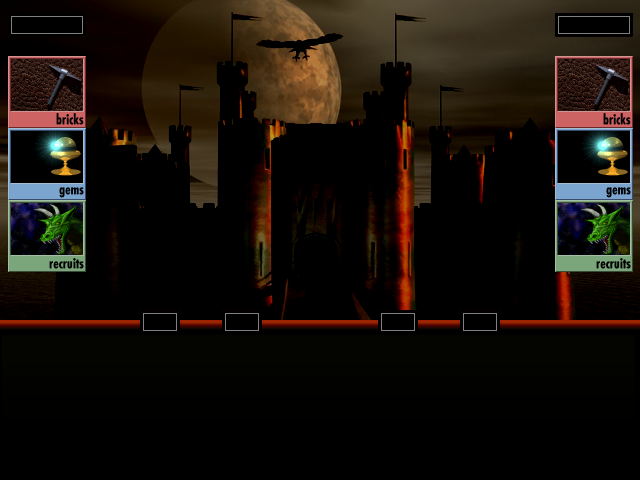
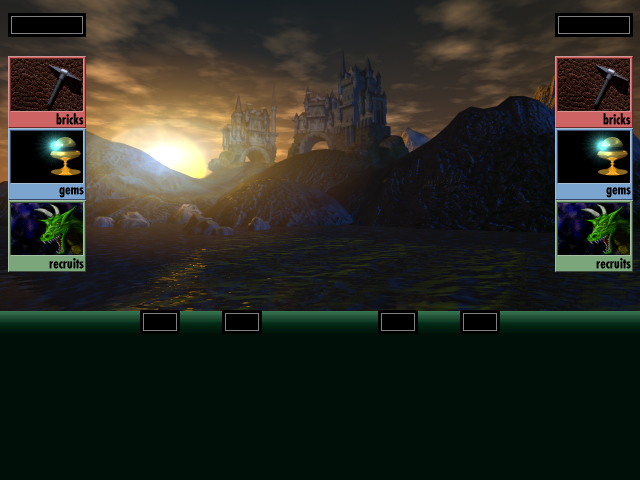
Graphics and usage changes
Now you can get more than 9 resource generators (though if you get more,
the number is not displayed - yet), you no longer can get 0 resource
generators, Lightning Shard now does what it says on the card, Moody
goblins sound is fixed, cards that you can't use due to missing resources
are more easily distinguished, the graphics.c class is now less hackish,
the buttons and background graphics are now the same as in the original
Arcomage, updated credits (still needs more work) and you can now escape
the win/lose window with your mouse (although you can accidentally click
a menu button - needs some work with command queueing; the same needs to
be applied to the Credits page).

The order in which players receive resources from their generators is
being changed, but is still a little buggy at the moment.

diff --git a/src/graphics.c b/src/graphics.c
@@ -11,6 +11,14 @@
 SDL_Event event;
 SDL_Surface *GfxData[GFX_CNT];
 
+int resX=640;
+int resY=480;
+int buttonWidth=125;
+int buttonHeight=54;
+int buttonDistanceX=257; //resX/2-buttonWidth/2 = 240
+int buttonDistanceY=105; //resY/2-(buttonHeight/2)*5 = 70
+int buttonNum=5;
+
 BFont_Info *numssmall=NULL;
 BFont_Info *font=NULL;
 BFont_Info *bigfont=NULL;
@@ -56,7 +64,7 @@ void Graphics_Init(int fullscreen)
 	if (SDL_Init(SDL_INIT_VIDEO|SDL_INIT_NOPARACHUTE)<0)
 		FatalError("Couldn't initialize SDL");
 	SDL_WM_SetCaption("Arcomage v" ARCOVER,NULL);
-	GfxData[SCREEN]=SDL_SetVideoMode(640,480,0,SDL_SWSURFACE|(fullscreen*SDL_FULLSCREEN));
+	GfxData[SCREEN]=SDL_SetVideoMode(resX,resY,0,SDL_SWSURFACE|(fullscreen*SDL_FULLSCREEN));
 	if (!GfxData[SCREEN])
 		FatalError("Couldn't set 640x480 video mode");
 	GfxData[BUFFER]=SDL_AllocSurface(GfxData[SCREEN]->flags,GfxData[SCREEN]->w,GfxData[SCREEN]->h,GfxData[SCREEN]->format->BitsPerPixel,GfxData[SCREEN]->format->Rmask,GfxData[SCREEN]->format->Gmask,GfxData[SCREEN]->format->Bmask,0);
@@ -146,7 +154,7 @@ void DrawStatus(int turn,struct Stats *Players)
 	sprintf(b,"%d",Players[0].t);BFont_PutString(GfxData[SCREEN],160-BFont_TextWidth(b)/2,317,b);
 	sprintf(b,"%d",Players[0].w);BFont_PutString(GfxData[SCREEN],242-BFont_TextWidth(b)/2,317,b);
 	sprintf(b,"%d",Players[1].w);BFont_PutString(GfxData[SCREEN],398-BFont_TextWidth(b)/2,317,b);
-	sprintf(b,"%d",Players[1].t);BFont_PutString(GfxData[SCREEN],480-BFont_TextWidth(b)/2,317,b);
+	sprintf(b,"%d",Players[1].t);BFont_PutString(GfxData[SCREEN],resY-BFont_TextWidth(b)/2,317,b);
 //	draw left tower
 	rectb.x=0;rectb.y=0;rectb.w=68;rectb.h=292-(200-Players[0].t);
 	recta.x=126;recta.y=16+(200-Players[0].t);recta.w=68;recta.h=292-(200-Players[0].t);
@@ -169,8 +177,13 @@ void DrawMenuItem(int i,int active)
 {
 	SDL_Rect recta,rectb;
 
-	recta.x=240;recta.y=i*32+160;recta.w=160;recta.h=32;
-	rectb.x=active*160;rectb.y=i*32;rectb.w=160;rectb.h=32;
+	//GE: x=distance from left border, y=number*height+distance from top border
+	//w=width, h=height; rectb is location in file, x=activated*width, y=number*height
+	//w=width, h=height.
+	//recta.x=240;recta.y=i*32+160;recta.w=160;recta.h=32;
+	//rectb.x=active*160;rectb.y=i*32;rectb.w=160;rectb.h=32;
+	recta.x=buttonDistanceX;recta.y=i*buttonHeight+buttonDistanceY;recta.w=buttonWidth;recta.h=buttonHeight;
+	rectb.x=active*buttonWidth;rectb.y=i*buttonHeight;rectb.w=buttonWidth;rectb.h=buttonHeight;
 
 	if (active)
 		SDL_BlitSurface(GfxData[MENUITEMS],&rectb,GfxData[SCREEN],&recta);
@@ -183,7 +196,7 @@ int Menu()
 	int i,j,value=0;
 
 	SDL_BlitSurface(GfxData[MENU],NULL,GfxData[SCREEN],NULL);
-	for (i=0;i<5;i++)
+	for (i=0;i<buttonNum;i++)
 		DrawMenuItem(i,0);
 	
 	UpdateScreen();
@@ -197,15 +210,15 @@ int Menu()
 			value=5;
 			break;
 		case SDL_MOUSEMOTION:
-			j=(event.motion.y-160)/32;
-			for (i=0;i<5;i++)
-				DrawMenuItem(i,(i==j)&&(event.motion.x>=240) && (event.motion.x<=240+160) && (event.motion.y>=160) && (event.motion.y<=160+160));
-			SDL_UpdateRect(GfxData[SCREEN],240,160,240+160,160+160);
+			j=(event.motion.y-buttonDistanceY)/buttonHeight;
+			for (i=0;i<buttonNum;i++)
+				DrawMenuItem(i,(i==j)&&(event.motion.x>=buttonDistanceX) && (event.motion.x<=buttonDistanceX+buttonWidth) && (event.motion.y>=buttonDistanceY) && (event.motion.y<=buttonDistanceY+buttonHeight*buttonNum));
+			SDL_UpdateRect(GfxData[SCREEN],buttonDistanceX,buttonDistanceY,buttonDistanceX+buttonWidth,buttonDistanceY+buttonHeight*buttonNum);
 			break;
 		case SDL_MOUSEBUTTONDOWN:
-			if ((event.button.button==SDL_BUTTON_LEFT) && InRect(event.button,240,160,240+160,160+160))
+			if ((event.button.button==SDL_BUTTON_LEFT) && InRect(event.button,buttonDistanceX,buttonDistanceY,buttonDistanceX+buttonWidth,buttonDistanceY+buttonHeight*buttonNum))
 			{	// menuitem
-				j=(event.button.y-160)/32;
+				j=(event.button.y-buttonDistanceY)/buttonHeight;
 				value=j+1;
 			}
 			break;
@@ -259,8 +272,8 @@ char *DialogBox(int type,const char *fmt,...)
 	}
 	rect.w=352;
 	rect.h=128;
-	rect.x=(640-rect.w) >> 1;
-	rect.y=(480-rect.h) >> 1;
+	rect.x=(resX-rect.w) >> 1;
+	rect.y=(resY-rect.h) >> 1;
 	SDL_BlitSurface(GfxData[type],NULL,GfxData[SCREEN],&rect);
 	rect.w-=4;
 	rect.h-=4;
@@ -351,17 +364,34 @@ void DoCredits()
 	#define HGHT 30
 	char *text[]={
 		"Arcomage v" ARCOVER,
-		"by STiCK (2005)",
+		"by STiCK and GreatEmerald (2005-2009)",
 		"",
-		"This program was created",
+		"This program was originally created",
 		"as Individual Software Project",
 		"at Charles University",
 		"Prague, Czech Republic",
 		"",
+		"Since 2009 it became easier to access",
+		"and its development was continued.",
+		"",
 		"http://stick.gk2.sk/projects/arcomage/",
+		"",
+		"This is a clone of Arcomage, a card game",
+		"originally released by New World Computing",
+		"and the 3DO Company as a part of",
+		"Might and Magic VII: For Blood and Honor",
+		"and re-released in 2001 as a stand-alone",
+		"application.",
+		"Since it didn't support any kind of",
+		"modifications, this open source project",
+		"aims to completely remake the original",
+		"and make it more flexible.",
+		"",
+		"Original credits follow.",
+		"",
 		NULL
 	};
-	int i,ypos=480;
+	int i,ypos=resY;
 	BFont_SetCurrentFont(bigfont);
 	while (event.type!=SDL_KEYDOWN || event.key.keysym.sym!=SDLK_ESCAPE)
 	{
@@ -369,7 +399,7 @@ void DoCredits()
 		i=0;
 		while (text[i])
 		{
-			if (ypos+i*HGHT>=-20 && ypos+i*HGHT<=640)
+			if (ypos+i*HGHT>=-20 && ypos+i*HGHT<=resX)
 				BFont_CenteredPutString(GfxData[SCREEN],ypos+i*HGHT,text[i]);
 			i++;
 		}

diff --git a/src/arco.c b/src/arco.c
@@ -16,6 +16,7 @@ int fullscreen=0;
 int soundenabled=1;
 int turn=0;
 int nextturn=0;
+int lastturn=0;
 int aiplayer=-1;
 int netplayer=-1;
 struct Stats Player[2];
@@ -39,7 +40,7 @@ void DrawCards(int turn)
 			if (Requisite(&Player[turn],i))
 				DrawCard(Player[turn].Hand[i],8+106*i,342);
 			else
-				DrawCardAlpha(Player[turn].Hand[i],8+106*i,342,160);
+				DrawCardAlpha(Player[turn].Hand[i],8+106*i,342,64);
 }
 
 void Boss()
@@ -80,6 +81,7 @@ void PlayCard(int c,int discrd)
 #define STEPS 10
 	int sound;
 	double d,x,y;
+	int bGiveResources=0;
 	
 	if (Player[turn].Hand[c] == 6+(1<<8) && discrd)
 		return;		// LodeStone can't be discarded
@@ -91,7 +93,7 @@ void PlayCard(int c,int discrd)
 		x=(8.0+106.0*c)+d*(272.0-(8.0+106.0*c));
 		y=342.0+d*(96.0-342.0);
 		Blit(BUFFER,SCREEN);
-		DrawCardAlpha(Player[turn].Hand[c],(int)x,(int)y,128);
+		DrawCardAlpha(Player[turn].Hand[c],(int)x,(int)y,64);
 		if (discrd)
 			DrawCard(0x200,(int)x,(int)y);
 		UpdateScreen();
@@ -100,17 +102,23 @@ void PlayCard(int c,int discrd)
 	sound=-1;
 	if (discrd) nextturn=!turn;
 			else nextturn=Turn(&Player[turn],&Player[!turn],Player[turn].Hand[c],turn);
-	Player[turn].b+=Player[turn].q;
-	Player[turn].g+=Player[turn].m;
-	Player[turn].r+=Player[turn].d;
+	if (turn != nextturn)
+		bGiveResources = 1;
 	Blit(GAMEBG,SCREEN);
 	DrawCard(Player[turn].Hand[c],272,96);
 	if (discrd) DrawCard(0x200,272,96);
 	PutCard(Player[turn].Hand[c]);
 	Player[turn].Hand[c]=GetCard();
+	lastturn=turn;
 	turn=nextturn;
 		
-	DrawStatus(turn,Player);	
+	DrawStatus(turn,Player);
+	if (bGiveResources) //GE: if you didn't put a play again card or you have discarded
+	{
+		Player[!lastturn].b+=Player[!lastturn].q; //GE: The enemy gets resources.
+		Player[!lastturn].g+=Player[!lastturn].m;
+		Player[!lastturn].r+=Player[!lastturn].d;
+	}	
 	DrawCards(turn);
 	UpdateScreen();
 }

diff --git a/src/cards.c b/src/cards.c
@@ -55,12 +55,12 @@ void SetDeck(int *d)
 
 void normalize(struct Stats *s)
 {
-	if (s->q<1) s->q=0;
-	if (s->m<1) s->m=0;
-	if (s->d<1) s->d=0;
-	if (s->q>9) s->q=9;
-	if (s->m>9) s->m=9;
-	if (s->d>9) s->d=9;
+	if (s->q<1) s->q=1;
+	if (s->m<1) s->m=1;
+	if (s->d<1) s->d=1;
+	if (s->q>99) s->q=99;
+	if (s->m>99) s->m=99;
+	if (s->d>99) s->d=99;
 
 	if (s->b<0) s->b=0;
 	if (s->g<0) s->g=0;
@@ -495,9 +495,9 @@ int Turn(struct Stats *s1,struct Stats *s2,int card,int turn)
 			break;
 		case (1<<8)+33:	// Lightning Shard
 			if (s1->t>s2->w)
-				damage(s2,8);
+				s2->t-=8;
 			else
-				damage(s2,4);
+				damage(s2,8);
 			Sound_Play(DAMAGE);
 			break;
 		case (1<<8)+34:	// Phase Jewel
@@ -519,6 +519,7 @@ int Turn(struct Stats *s1,struct Stats *s2,int card,int turn)
 			break;
 		case (2<<8)+3:	// Moody Goblins
 			Sound_Play(DAMAGE);
+			Sound_Play(RESS_DOWN);
 			damage(s2,4);
 			s1->g-=3;
 			break;

diff --git a/src/input.c b/src/input.c
@@ -44,6 +44,6 @@ void WaitForInput()
 	do {
 		SDL_PollEvent(&event);
 		SDL_Delay(CPUWAIT);
-	} while (event.type!=SDL_KEYDOWN);
+	} while (!((event.type==SDL_KEYDOWN)||((event.type==SDL_MOUSEBUTTONDOWN)&&(event.button.button==SDL_BUTTON_LEFT))));
 	SDL_PumpEvents();
 }
